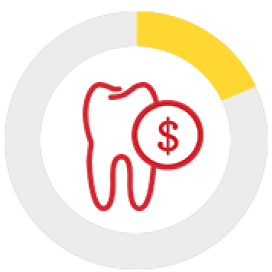
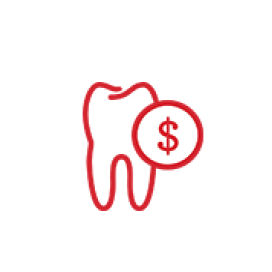
Animate tooth chart

diff --git a/src/main.js b/src/main.js
@@ -27,21 +27,43 @@ setTimeout(function() {
   body.classList.add(myVue._route.name);
 }, 99);
 
-// window.console.log(KsVueScrollmagic, myVue);
+window.console.log(myVue);
 
 function aniThis() {
   var con = new myVue.$scrollmagic.Controller();
   var sce = new myVue.$scrollmagic.Scene({
-    triggerElement: this,
     offset: -222,
     reverse: false,
+    triggerElement: this,
   });
 
   sce.setClassToggle(this, 'ani').addTo(con);
 }
 
+function aniChart(num) {
+  var con = new myVue.$scrollmagic.Controller();
+  var ele = '.tooth .chart svg .line-fill';
+  var def = {
+    scene: {
+      offset: -111,
+      reverse: false,
+      triggerElement: ele,
+    },
+    tween: {
+      delay: 1,
+      ease: myVue.$gsap.Bounce.easeOut,
+      strokeDashoffset: num,
+    },
+  };
+
+  def.scene = new myVue.$scrollmagic.Scene(def.scene);
+  def.tween = myVue.$gsap.TweenMax.to(ele, 1, def.tween);
+  con.addScene(def.scene.setTween(def.tween));
+}
+
 function ani() {
   $('section').each(aniThis);
+  aniChart(250);
 }
 
 window.setTimeout(ani, 999);

diff --git a/src/scss/_drt/tooth.scss b/src/scss/_drt/tooth.scss
@@ -2,11 +2,6 @@
   @extend .columnize;
   @extend .widen;
 
-  img {
-    height: 10rem;
-    margin: 2rem 2rem 0 0;
-    width: 10rem;
-  }
   p {
     line-height: 1.2;
     margin-bottom: 0;
@@ -22,6 +17,20 @@
     color: $red;
     font-size: 3.2em;
     font-weight: 800;
+  }
+  .chart {
+    padding: 2rem 2rem 0 0;
+
+    img {
+      height: 10rem;
+      width: 10rem;
+      position: relative;
+    }
+    svg {
+      height: 10rem;
+      width: 10rem;
+      position: absolute;
+    }
   }
 }
 
